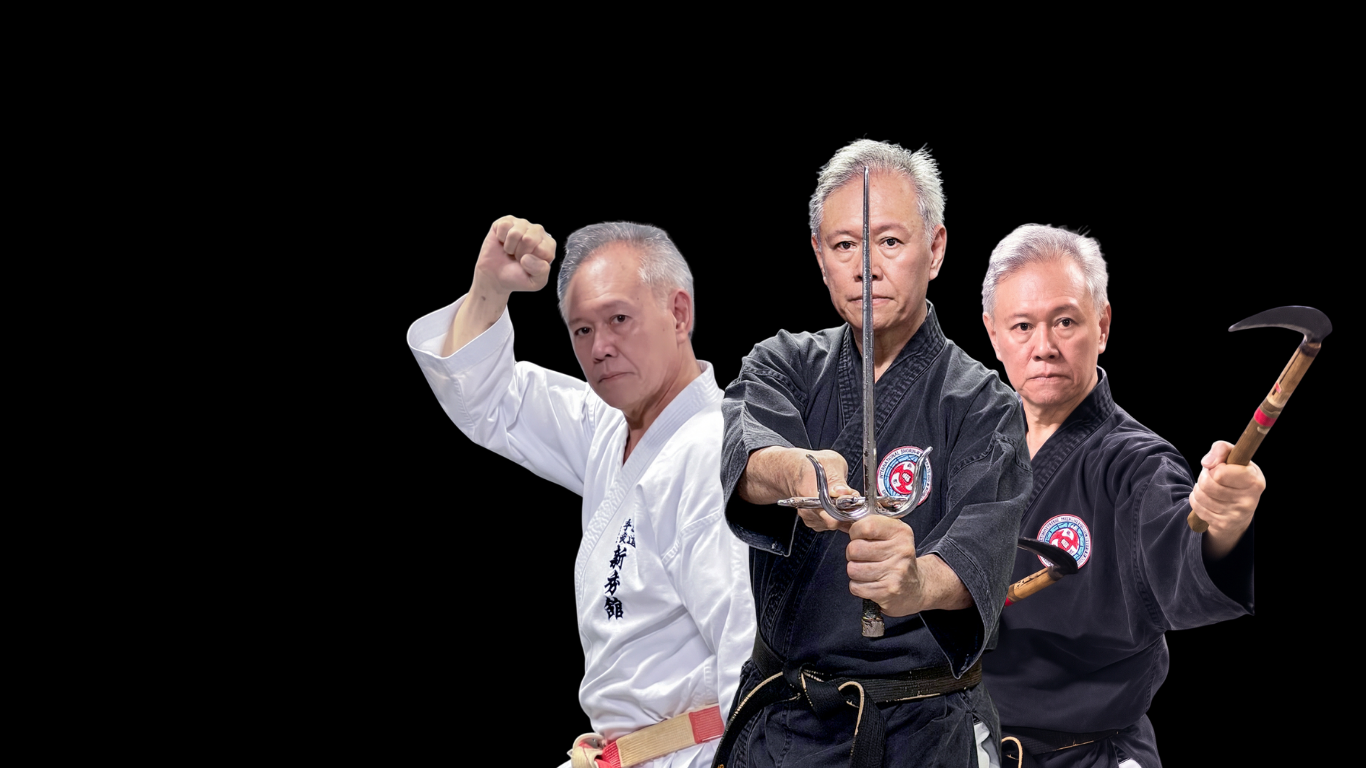
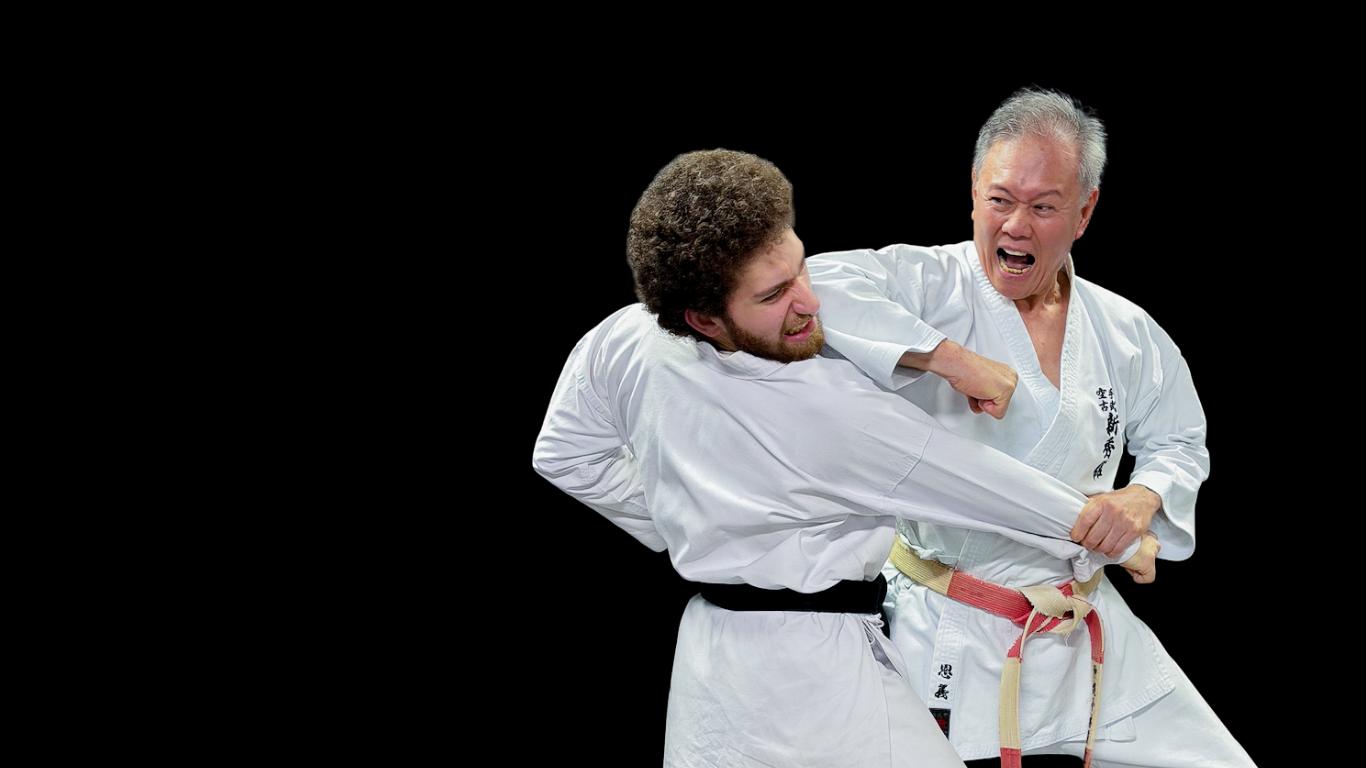
adicionando materia do mes do praticante

diff --git a/src/data/newsData.tsx b/src/data/newsData.tsx
@@ -148,9 +148,91 @@ import uberaba8 from "../assets/images/uberaba/8.png"
 
 import julho from "../assets/images/inscricoes/julho.png"
 
+import praticante9 from "../assets/images/praticante2026/1.png"
+import praticante10 from "../assets/images/praticante2026/2.png"
+import praticante11 from "../assets/images/praticante2026/3.png"
+import praticante12 from "../assets/images/praticante2026/4.png"
+import praticante13 from "../assets/images/praticante2026/5.png"
+import praticante14 from "../assets/images/praticante2026/6.png"
+import praticante15 from "../assets/images/praticante2026/7.png"
+import praticante16 from "../assets/images/praticante2026/8.png"
+import praticante17 from "../assets/images/praticante2026/9.png"
+import praticante18 from "../assets/images/praticante2026/10.png"
+import praticante19 from "../assets/images/praticante2026/11.png"
+
 
 
 export const news = [
+
+  {
+  slug: "mes-do-praticante-karate-outubro-2026",
+
+  title:
+    "Mês do Praticante reúne karatecas em dia de aprendizado e reconhecimento",
+
+  subtitle:
+    "Encontro tradicional celebrou o Dia Mundial do Karatê com treinamento, confraternização e uma homenagem surpresa aos praticantes.",
+
+  date:
+    "Outubro • 2026",
+
+  location:
+    "Santos • SP",
+
+  cover:
+    praticante9,
+
+  content:
+    `No último sábado, 03 de outubro, o tradicional Treino de Karate-Do reuniu praticantes para uma manhã de intenso aprendizado, aperfeiçoamento técnico e celebração do verdadeiro espírito da arte marcial. O encontro, realizado no Cuca’s Academia, também foi marcado por um momento especial preparado pelo Sensei Rogério Wong: uma homenagem surpresa a todos os participantes presentes.
+
+Além dos estudos e práticas do Okinawa Shorin-Ryu Karate-Do Shinshukan, cada praticante recebeu um reconhecimento individual em agradecimento pela dedicação, amizade, perseverança e contribuição para o fortalecimento do Karate-Do ao longo dos anos. O gesto emocionou os presentes e tornou o encontro ainda mais significativo.
+
+A presença de alunos com longa trajetória na arte, ao lado de praticantes de diferentes graduações, reforçou um dos maiores ensinamentos do Karate-Do: a evolução acontece quando caminhamos juntos, aprendendo uns com os outros e mantendo viva a tradição deixada pelos mestres que vieram antes de nós.
+
+Mais do que um treinamento, foi uma oportunidade de compartilhar conhecimento, fortalecer amizades e vivenciar valores que vão muito além da técnica.
+
+As inscrições para a próxima edição, prevista para novembro, serão abertas em breve. Como as vagas são limitadas para garantir um acompanhamento mais próximo e um treinamento de qualidade, os interessados devem ficar atentos aos canais oficiais para garantir sua participação.
+
+
+Os depoimentos dos participantes reforçaram a importância do encontro e a qualidade do aprendizado compartilhado.
+
+“Sua aula é muito gratificante. Seu conhecimento de filosofia e técnica veio do nosso saudoso Mestre Shinsato e hoje é compartilhado com seus seguidores.”
+
+“A cereja do bolo foi a aula, com práticas e exercícios, estudos, orientações e confraternização. Obrigado, Sensei, pela aula técnica e pelos comentários sobre técnicas e cultura das artes marciais.”
+
+“É sempre muito bom poder treinar e aprender cada vez mais, tendo a consciência de que o aprendizado e a evolução devem ser constantes.”
+
+
+Essas manifestações demonstram que o valor de um encontro vai além das técnicas praticadas: está também no conhecimento compartilhado, nas experiências vividas e na motivação para continuar evoluindo no caminho do Karate-Do.`,
+
+  gallery: [
+    praticante9,
+    praticante10,
+    praticante11,
+    praticante12,
+    praticante13,
+    praticante14,
+    praticante15,
+    praticante16,
+    praticante17,
+    praticante18,
+    praticante19
+  ],
+
+  videos: []
+},
+
+
+
+
+
+
+
+
+
+
+
+
 
   {
     slug: "aula-de-karate-julho-2026",
